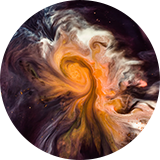
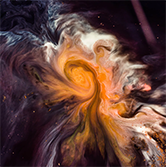
скруглила фото

diff --git a/index.html b/index.html
@@ -118,7 +118,7 @@
         <div class="news_last">
           <ul class="news_list">
             <li class="news_item">
-             <div class="news_pic"><img src="./img/nw1.png" alt="" ></div>
+             <div class="news_pic" style="width: 160px; height: 160px; background: url('./img/nw1.png'); border-radius: 50%;"></div>
               <div class="news_desc">
                 <div class="news_date">12.10.2016</div>
                 <div class="news_name">Похудение с помощью бодибилдинга!</div>
@@ -127,27 +127,27 @@
               </div>
             </li>
             <li class="news_item">
-              <div class="news_pic"><img src="./img/nw2.png" alt="" class="news_pic"></div>
+                <div class="news_pic" style="width: 160px; height: 160px; background: url('./img/nw2.png'); border-radius: 50%;"></div>
               <div class="news_desc">
                 <div class="news_date">01.02.2016</div>
                 <div class="news_name">Заражай друзей, получай призы!</div>
-                <span class="news_text">Дополнительно для Вас: польлзование сауной и проедоставление
+                <div class="news_text">Дополнительно для Вас: польлзование сауной и проедоставление
                   средств личной гигиены, пользование баром, таблица замеров, дружеская
                   атмосфера и постоянная поддержка. Мы заботимся о вашем комфорте
                   и предлагаем испытать это уже сегодня!
-                </span>
+                </div>
               </div>
             </li>
             <li class="news_item">
-              <div class="news_pic"><img src="./img/nw3.png" alt="" class="news_pic"></div>
+                <div class="news_pic" style="width: 160px; height: 160px; background: url('./img/nw3.png'); border-radius: 50%;"></div>
               <div class="news_desc">
                 <div class="news_date">22.12.2015</div>
                 <div class="news_name">Фрилансер? Выпрями спину!</div>
-                <span class="news_text">Создайте рабочее место под себя. Вот этот инструмент поможет
+                <div class="news_text">Создайте рабочее место под себя. Вот этот инструмент поможет
                   определить, что подходит именно вам и вашему организму. Используйте
                   специальную подставку для ноутбука, если вы проводите за ним больше
                   2 часов. Настройте высоку и яркость монитора!
-                </span>
+                </div>
               </div>
             </li>
           </ul>

diff --git a/main.css b/main.css
@@ -230,13 +230,21 @@ ul li{
   display: block;
   width: 921px;
  }
-
+/*<div style="background: url('Ссылка на картинку'); 
+width: 244px;
+ height: 244px; 
+ border: 5px solid #CCA5D1; 
+ border-radius: 160px 160px 160px 160px; 
+ - webkit-border-radius: 160px 160px 160px 160px;
+  -moz-border-radius: 160px 160px 160px 160px;"></div>
+*/
 .news_pic{
-  display: inline-block;
-  margin-left: 20px;
-  margin-right: 30px;
-  width: 160px;
-  height: 160px;
+  position: relative;
+  display: block;
+  
+  margin: 0 auto;
+
+
 }
 .news_desc{
   display: inline-block;
